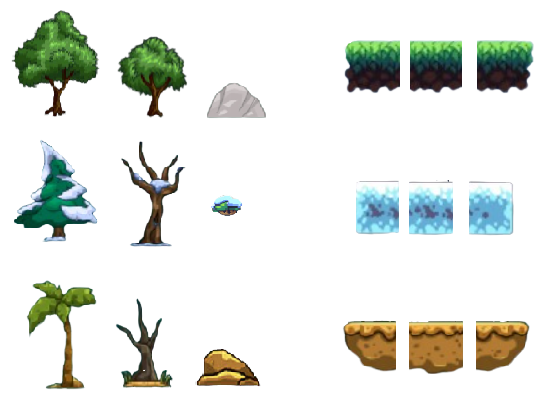
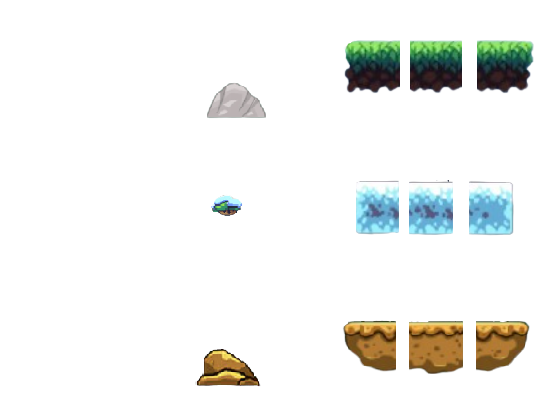
add new dec

diff --git a/oop2_proj/src/DataBase.cpp b/oop2_proj/src/DataBase.cpp
@@ -77,27 +77,27 @@ bool DataBase::createStaticObj(const char c, const sf::Vector2f &pos)
 		break;
 	case  START_FLOOR_C:
 		m_staticsObj.push_back(std::make_unique<LeftFloor>(pos, levels(m_currLevel),
-			L_FLOOR,sf::Vector2f(BLOCK_SIZE / 2, BLOCK_SIZE / 1.5)));
+			L_FLOOR,sf::Vector2f(BLOCK_SIZE / 2, BLOCK_SIZE / 1.5), FLOOR_ROCK));
 		break;
 	case  FLOOR_C:
 		m_staticsObj.push_back(std::make_unique<Floor>(pos, levels(m_currLevel), M_FLOOR,
-			sf::Vector2f(BLOCK_SIZE / 2, BLOCK_SIZE / 1.5)));
+			sf::Vector2f(BLOCK_SIZE / 2, BLOCK_SIZE / 1.5), FLOOR_ROCK));
 		break;
 	case  END_FLOOR_C:
 		m_staticsObj.push_back(std::make_unique<RightFloor>(pos, levels(m_currLevel), R_FLOOR
-			,sf::Vector2f(BLOCK_SIZE / 2, BLOCK_SIZE / 1.5)));
+			,sf::Vector2f(BLOCK_SIZE / 2, BLOCK_SIZE / 1.5),FLOOR_ROCK));
 		break;
 	case  F_TREE_C:
 		m_staticsObj.push_back(std::make_unique<StageDec>(pos, levels(m_currLevel),
-			F_TREE,sf::Vector2f(BLOCK_SIZE*1.5, BLOCK_SIZE * 1.5)));
+			F_TREE,sf::Vector2f(BLOCK_SIZE*1.5, BLOCK_SIZE * 1.5), TREE));
 		break;
 	case  S_TREE_C:
 		m_staticsObj.push_back(std::make_unique<StageDec>(pos, levels(m_currLevel), S_TREE,
-			sf::Vector2f(BLOCK_SIZE, BLOCK_SIZE * 1.5)));
+			sf::Vector2f(BLOCK_SIZE, BLOCK_SIZE * 1.5), TREE));
 		break;
 	case  ROCK_C:
 		m_staticsObj.push_back(std::make_unique<StageDec>(pos + sf::Vector2f(0, 25), levels(m_currLevel),
-			ROCK,sf::Vector2f(BLOCK_SIZE/3, BLOCK_SIZE/3)));
+			ROCK,sf::Vector2f(BLOCK_SIZE/3, BLOCK_SIZE/3), FLOOR_ROCK));
 		break;
 		
 	default:

diff --git a/oop2_proj/include/macros.h b/oop2_proj/include/macros.h
@@ -129,6 +129,12 @@ enum icons
 	POTION_P,ROPE,EMPTY
 };
 
+enum dec
+{
+	FLOOR_ROCK,
+	TREE
+};
+
 enum Operation
 {
 	Up, Down, Right, Left, Stay, Hit,
@@ -179,16 +185,16 @@ LEFT_FLOOR_L3(342, 322, 58, 50),
 MIDDLE_FLOOR_L3(408, 322, 52, 49),
 RIGHT_FLOOR_L3(475, 322, 54, 50),
 
-FIRST_TREE_L1(10, 11, 100, 88),
-SECOUND_TREE_L1(116, 38, 77, 71),
+FIRST_TREE_L1(3,47,98,100),
+SECOUND_TREE_L1(106,3,143,144),
 ROCK_L1(200, 81, 80, 48),
 
-FIRST_TREE_L2(10, 135, 90, 108),
-SECOUND_TREE_L2(119, 139, 67, 110),
+FIRST_TREE_L2(13,182,150,98),
+SECOUND_TREE_L2(134,178,160,100),
 ROCK_L2(209, 192, 40, 30),
 
-FIRST_TREE_L3(25, 279, 76, 111),
-SECOUND_TREE_L3(112, 297, 62, 90),
+FIRST_TREE_L3(2,395,109,103),
+SECOUND_TREE_L3(113,369,140,134),
 ROCK_L3(195, 348, 80, 50),
 
 MALE_RECT(736, 5, 95, 110), 

diff --git a/oop2_proj/include/FileManager.h b/oop2_proj/include/FileManager.h
@@ -31,7 +31,7 @@ public:
 	const sf::Texture* getBIcons(const bIcons)const;
 
 	const sf::Font* getFont()const;
-	const sf::Texture* getDec() const;
+	const sf::Texture* getDec(const int) const;
 	const sf::IntRect getCurrLevDecRect(const levels, const decoration) const;
 	const sf::IntRect getPlayerRect(const gender) const;
 	const AnimationData& getStaticData(const icons)const;
@@ -67,7 +67,7 @@ private:
 	sf::Texture m_monstersIcon[NUM_OF_LEVELS][NUM_OF_MONSTERS];
 	sf::Texture m_player;
 	sf::Texture m_sharedStaticIcon[NUM_OF_DEC];
-	sf::Texture m_dec;
+	sf::Texture m_dec[2];
 	sf::IntRect m_decRect[NUM_OF_LEVELS][NUM_OF_DEC];
 	sf::IntRect m_PlayerRect[2];
 	sf::Texture m_backgrounds[NUM_OF_BACKGROUNDS];

diff --git a/oop2_proj/src/FileManager.cpp b/oop2_proj/src/FileManager.cpp
@@ -67,7 +67,8 @@ void FileManager::loadStaticObj()
 	m_sharedStaticIcon[ROPE].loadFromFile("Rope.png");
 	m_sharedStaticIcon[GATE].loadFromFile("Gate.png");
 
-	m_dec.loadFromFile("staticDec.png");
+	m_dec[0].loadFromFile("staticDec.png");
+	m_dec[1].loadFromFile("trees.png");
 
 	loadStaticObjRect();
 }
@@ -282,9 +283,9 @@ sf::Texture* FileManager::getPlayerTexture()
 	return &this->m_player;
 }
 //------------------------------------------------------------------
-const sf::Texture* FileManager::getDec() const
+const sf::Texture* FileManager::getDec(const int place) const
 {
-	return &this->m_dec;
+	return &this->m_dec[place];
 }
 //------------------------------------------------------------------
 

diff --git a/oop2_proj/src/StaticSrc/StageDec.cpp b/oop2_proj/src/StaticSrc/StageDec.cpp
@@ -1,10 +1,11 @@
 #include "StaticInclude\StageDec.h"
 
 
-StageDec::StageDec(sf::Vector2f pos, levels level_num, decoration dec, sf::Vector2f size)
+StageDec::StageDec(sf::Vector2f pos, levels level_num, decoration dec, sf::Vector2f size,
+	const int place)
 	: StaticObj(size, pos)
 {
-	auto m_pTexture = FileManager::instance().getDec();
+	auto m_pTexture = FileManager::instance().getDec(place);
 	m_shape.setTexture(m_pTexture);
 	m_shape.setTextureRect(FileManager::instance().getCurrLevDecRect(level_num, dec));
 	//m_shape.setSmooth(true);

diff --git a/oop2_proj/include/StaticInclude/PowerPotion.h b/oop2_proj/include/StaticInclude/PowerPotion.h
@@ -1,0 +1,20 @@
+#pragma once
+#include "StaticInclude\Potion.h"
+
+class PowerPotion : public Potion
+{
+public:
+	PowerPotion(sf::Vector2f pos)
+		: Potion({ BLOCK_SIZE/9,BLOCK_SIZE/3 }, pos)
+	{
+		m_shape.setTexture(FileManager::instance().getSharedStaticTexture(POTION_P));
+	}
+private:
+};
+
+
+
+
+
+
+

diff --git a/oop2_proj/include/StaticInclude/LifePotion.h b/oop2_proj/include/StaticInclude/LifePotion.h
@@ -1,0 +1,13 @@
+#pragma once
+#include "StaticInclude\Potion.h"
+
+class LifePotion : public Potion
+{
+public:
+	LifePotion(sf::Vector2f pos)
+		: Potion({ BLOCK_SIZE / 9,BLOCK_SIZE / 3 }, pos)
+	{
+		m_shape.setTexture(FileManager::instance().getSharedStaticTexture(POTION_L));
+	}
+private:
+};

diff --git a/oop2_proj/include/StaticInclude/StageDec.h b/oop2_proj/include/StaticInclude/StageDec.h
@@ -4,7 +4,7 @@
 class StageDec :public StaticObj
 {
 public:
-	StageDec(sf::Vector2f , levels, decoration,sf::Vector2f);
+	StageDec(sf::Vector2f , levels, decoration,sf::Vector2f,const int );
 private:
 	sf::IntRect m_rect;
 };
